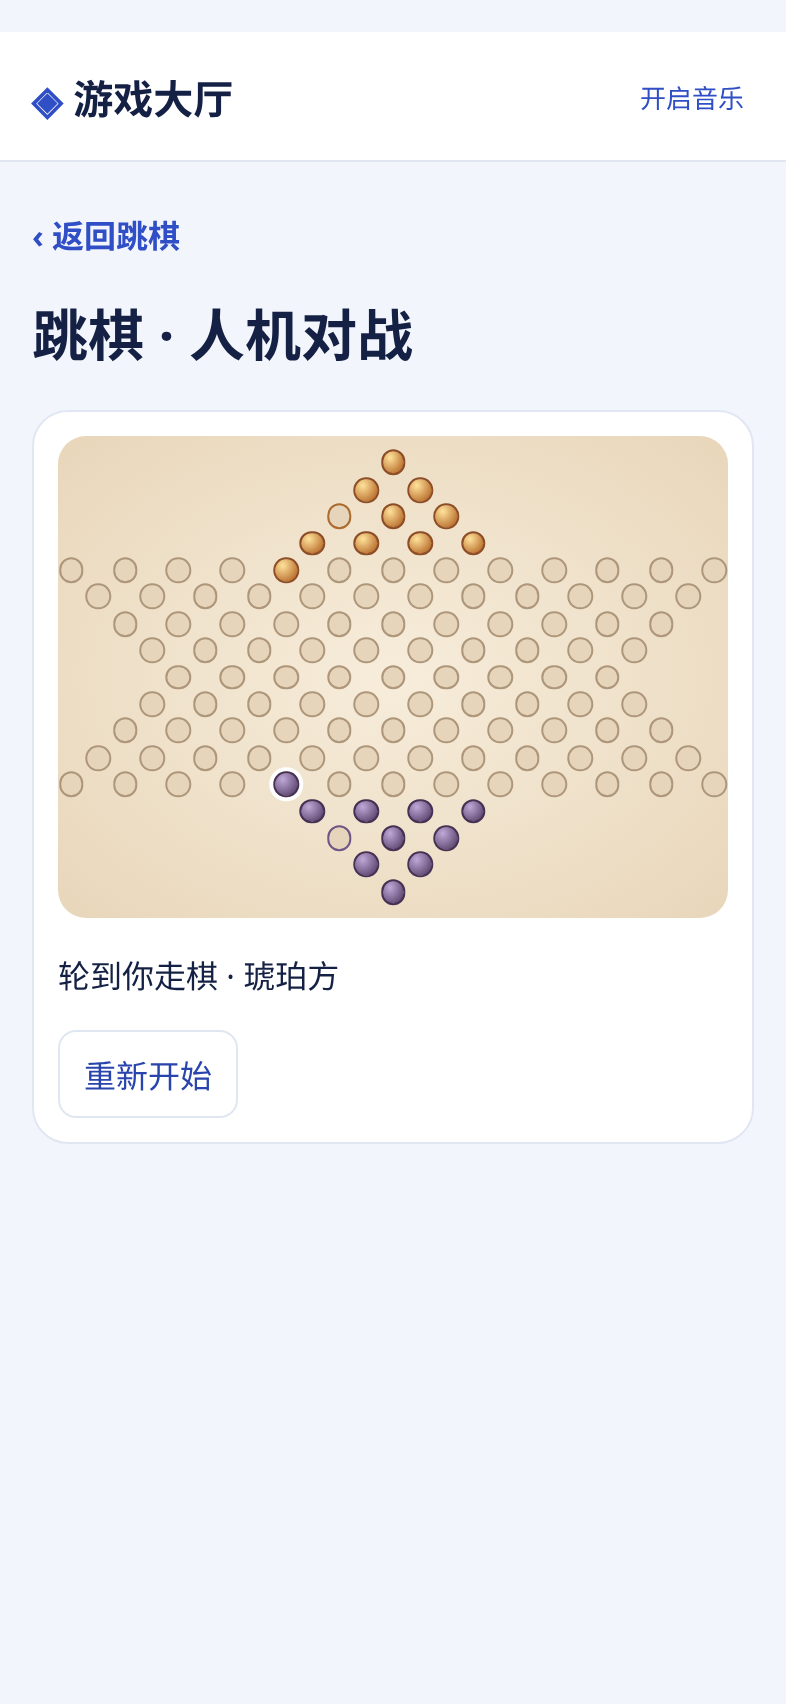
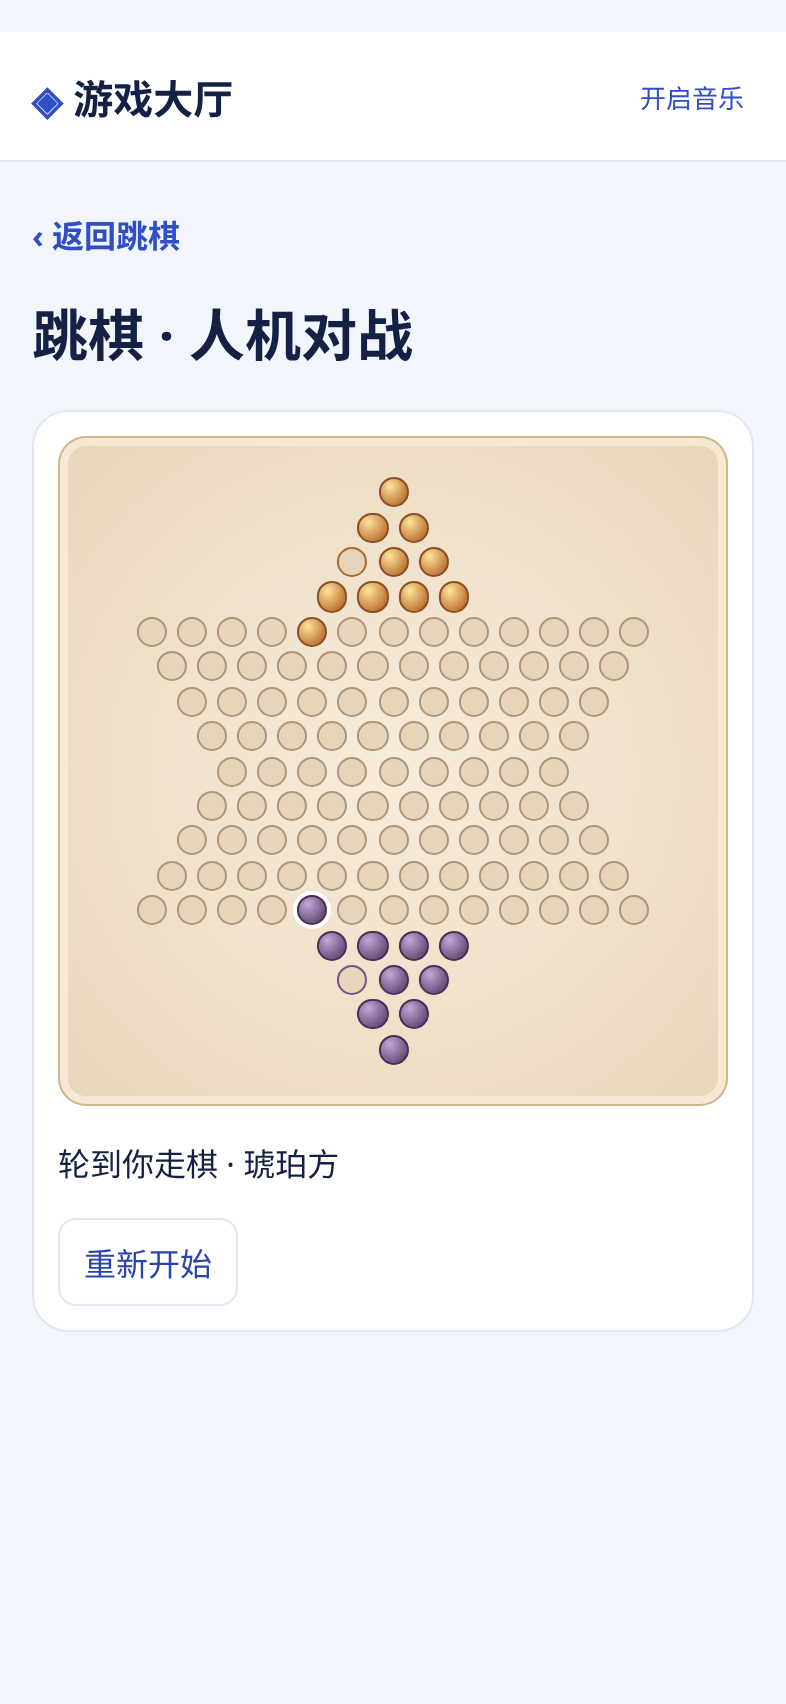
Refine square Checkers layout and build a 40-tile estate board

Changed region(s): [[0.0611, 0.2488, 0.9466, 0.7465], [0.916, 0.311, 0.9466, 0.3421], [0.0611, 0.311, 0.0916, 0.3421]]

diff --git a/public/style.css b/public/style.css
@@ -34,16 +34,42 @@ nav{display:flex;gap:24px;color:#536181;font-weight:650}nav a{padding:16px 0;bor
 .category-icon,.mode-icon{min-height:62px;display:flex;align-items:center;justify-content:center;gap:4px;border-radius:10px;background:#f3e8d9;color:#664d3c}
 .category-icon{font-size:28px}.mode-icon{background:#eeeae5}
 .game-hero{min-height:190px;margin-top:0}.game-hero h1,.game-hero p{margin:0}.game-hero p{margin-top:6px}
-#checkers-board{position:relative;aspect-ratio:25/18;border-radius:14px;background:radial-gradient(ellipse,#f7eddb,#e8d6ba);overflow:hidden}
-.checker-hole{position:absolute;left:calc((var(--x) + .5)*100%/25);top:calc((var(--y) + 1)*100%/18);transform:translate(-50%,-50%);width:3.8%;aspect-ratio:1;border:1px solid #ae967a;border-radius:50%;background:#e6d5bb;padding:0;color:#fff;display:grid;place-items:center}
+#checkers-board{position:relative;aspect-ratio:1;border-radius:14px;background:radial-gradient(circle,#f7eddb,#e8d6ba);overflow:hidden;box-shadow:inset 0 0 0 1px #d0b591,inset 0 0 0 5px #f6e9d3}
+.checker-hole{position:absolute;left:calc(50% + (var(--x) - 12)*3%);top:calc(50% + (var(--y) - 8)*5.196%);transform:translate(-50%,-50%);width:4.5%;aspect-ratio:1;border:1px solid #ae967a;border-radius:50%;background:#e6d5bb;padding:0;color:#fff;display:grid;place-items:center}
 .checker-hole:disabled{opacity:1}.checker-hole[data-camp="1"]{border-color:#ac6b2d}.checker-hole[data-camp="2"]{border-color:#705687}
 .checker-hole[data-stone="1"]{background:radial-gradient(at 34% 28%,#ffe39b,#a95415);border-color:#8d4d27}.checker-hole[data-stone="2"]{background:radial-gradient(at 34% 28%,#c0a8d8,#483258);border-color:#463154}
 .checker-hole[data-target="true"]{background:#fff7e5;outline:2px solid #8b4a27}.checker-hole[data-selected="true"]{outline:2px solid #442b17}
 .checker-hole[data-last="true"]{box-shadow:0 0 0 2px #fff}.checker-hole[data-hint]::after{content:attr(data-hint);display:grid;place-items:center;background:#29444a;width:100%;height:100%;border-radius:50%;font-size:clamp(8px,2.5vw,14px)}
 .audio-toggle{min-height:44px;border:0;background:transparent;color:var(--accent);font-size:13px;padding:0 5px}
-#estate-board{display:grid;grid-template:repeat(5,minmax(45px,auto))/repeat(5,minmax(0,1fr));gap:3px;background:#efe5d7;padding:5px;border-radius:10px}
-.estate-tile{background:#fcf5eb;border-radius:5px;padding:4px 2px;text-align:center;font-size:clamp(9px,2.35vw,13px);overflow-wrap:anywhere;display:grid;align-content:center;gap:2px}
-.estate-tile[data-owner="0"]{background:#ffdcb8}.estate-tile[data-owner="1"]{background:#e8d9fa}
-.estate-tile small{display:block}.estate-pieces{font-size:11px}
-#estate-players{grid-area:2/2/5/5;display:grid;place-items:center;text-align:center;font-weight:700;color:#563d2e}
-.estate-controls{flex-wrap:wrap}
+#estate-page .back{color:#37645c}
+.estate-shell{max-width:620px;margin:auto;padding:clamp(10px,3vw,18px);color:#233b36;background:#faf6ed;border:1px solid #e8ded0;border-radius:22px;box-shadow:0 12px 32px #382c1410}
+.estate-header{display:flex;justify-content:space-between;align-items:center;gap:10px;margin:0 1px 13px}.estate-header h1{margin:0;font-size:clamp(24px,7.5vw,38px);letter-spacing:.08em}.estate-header span{font-size:12px;color:#586d63;white-space:nowrap}
+.estate-players{display:grid;grid-template-columns:1fr 1fr;gap:7px;margin-bottom:11px}.estate-player{min-width:0;display:grid;grid-template-columns:auto 1fr auto;gap:5px;align-items:center;border:1px solid #e7ded0;border-radius:10px;background:#fffdf7;padding:8px 6px;font-size:12px}.estate-player[data-active="true"]{border-color:#56786b;background:#ebf1e9}
+.estate-player strong{font-variant-numeric:tabular-nums;font-size:clamp(13px,3.9vw,19px);white-space:nowrap}.estate-player small,.estate-deed small{display:block;color:#5f7069;font-size:11px}.estate-player i,.estate-pieces i{height:9px;width:9px;display:inline-block;border-radius:50%;background:#be6738;border:1px solid #8e4622}
+.estate-player[data-estate-player="1"] i,.estate-pieces i[data-side="1"]{background:#816b99;border-color:#584469}
+#estate-viewport{overflow:auto;aspect-ratio:1;overscroll-behavior:contain;touch-action:pan-x pan-y;border-radius:10px;background:#29443d}
+.estate-mapbar{display:flex;justify-content:space-between;gap:5px;margin:0 2px 6px;color:#4b655b;font-size:11px}
+#estate-board{position:relative;min-width:760px;display:grid;grid-template:repeat(11,minmax(0,1fr))/repeat(11,minmax(0,1fr));aspect-ratio:1;gap:3px;background:#29443d;padding:5px;border-radius:12px;box-shadow:0 4px 10px #1b2e2720}
+.estate-map{grid-area:2/2/11/11;background:#a7b5a0 url('/estate-map.webp') center/cover;border-radius:5px;box-shadow:inset 0 0 14px #362e2633}
+.estate-tile{--district:#a06754;position:relative;min-width:0;background:#fbf2e3;border:0;border-top:3px solid var(--district);border-radius:4px;padding:2px 1px;text-align:center;font-size:clamp(8px,2.55vw,14px);line-height:1.1;overflow:hidden;display:flex;flex-direction:column;justify-content:center;align-items:center;gap:2px;color:#233b36}
+.estate-tile[data-district="1"]{--district:#487c73}.estate-tile[data-district="2"]{--district:#bd8c43}.estate-tile[data-district="3"]{--district:#84748f}
+.estate-tile[data-district="4"]{--district:#4e7791}.estate-tile[data-district="5"]{--district:#7b644e}
+.estate-tile[data-owner="0"]{background:#ffdfc1}.estate-tile[data-owner="1"]{background:#eee3f6}
+.estate-tile[aria-pressed="true"]{box-shadow:inset 0 0 0 2px #1f4940}.estate-tile strong{font-weight:750;overflow-wrap:anywhere}.estate-tile small{font-size:clamp(8px,2.5vw,12px);color:#425650}.estate-tile-badge{color:var(--district);font-size:10px}
+.estate-pieces{position:absolute;display:flex;gap:1px;right:2px;top:1px}.estate-pieces i{height:8px;width:8px;box-shadow:0 0 0 1px #fffc}
+.estate-deed{display:flex;align-items:center;justify-content:space-between;gap:12px;margin-top:10px;padding:8px 11px;background:#fffdf7;border:1px solid #e7ded0;border-radius:9px}.estate-deed strong,.estate-deed b{font-size:14px}
+.estate-operation{margin-top:10px;padding:11px;background:#28453d;color:#fffaf0;border-radius:13px}.estate-turn{display:flex;gap:9px;align-items:center}.estate-turn strong{font-size:14px}.estate-turn p{margin:3px 0 0;color:#e1e7da;font-size:12px;line-height:1.4}.estate-turn>span{color:#fff5db;font-size:34px;line-height:1}
+.estate-controls{display:flex;flex-wrap:wrap;gap:6px;margin-top:10px}.estate-controls button,.estate-footer button{min-height:44px;padding:0 9px;border:1px solid #719183;border-radius:8px;background:#354f46;color:#fff9ed;font-size:13px}.estate-controls .estate-primary{background:#f9e1aa;color:#273d32;border-color:#f9e1aa;font-weight:800;flex:1 1 100px}
+.estate-controls button:disabled{opacity:.5}.estate-footer{display:flex;justify-content:space-between;align-items:flex-start;gap:8px;margin-top:8px;font-size:12px;color:#4b655b}.estate-footer summary{min-height:44px;align-content:center;cursor:pointer}.estate-footer p{line-height:1.6}.estate-footer button{flex-shrink:0;background:transparent;color:#41655a;border-color:#d8dfd4}
+@media(max-width:375px){.estate-player{grid-template-columns:auto 1fr;gap:4px}.estate-player strong{grid-column:2}.estate-tile-badge{display:none}}
+
+.estate-model{position:absolute;top:12px;left:12px;width:13px;height:13px;transform-style:preserve-3d;transform:rotateX(51deg) rotateZ(-36deg);pointer-events:none}
+.estate-model i{position:absolute;inset:0;transform-style:preserve-3d;transform:translateZ(calc(6px + var(--floor)*6px));background:#e5b965;border:1px solid #715832}
+.estate-model i b{display:block;position:absolute;background:#91613a}
+.estate-model i b:first-child{width:13px;height:6px;bottom:0;left:-1px;transform-origin:bottom;transform:translateY(6px) rotateX(-90deg);border:1px solid #65432c}
+.estate-model i b:last-child{height:13px;width:6px;right:0;top:-1px;transform-origin:right;transform:translateX(6px) rotateY(90deg);border:1px solid #65432c;background:#b27d4a}
+.estate-tile:not([data-floors="0"]) .estate-tile-badge{opacity:0}
+
+.estate-mapbar{align-items:center}.estate-mapbar button{min-height:36px;padding:0 8px;border-radius:7px;background:#fffdf7;border:1px solid #e7ded0;color:#31574e;font-size:12px}
+.estate-tile[data-district="6"]{--district:#9b765b}.estate-tile[data-district="7"]{--district:#986b77}.estate-tile[data-district="8"]{--district:#687d53}.estate-tile[data-district="9"]{--district:#618ba3}
+#estate-viewport.overview #estate-board{min-width:0}.overview .estate-tile small,.overview .estate-tile-badge,.overview .estate-model{display:none}.overview .estate-tile{font-size:9px}

diff --git a/public/index.html b/public/index.html
@@ -24,29 +24,43 @@
     </a>
   </section>
 </section>
-<section id="board-games" class="directory" hidden>
+<section id="tabletop-category" class="directory" hidden>
   <a class="back" href="#">‹ 返回游戏大厅</a>
   <h1>桌游</h1>
   <a class="game" href="#estate"><span class="category-icon" aria-hidden="true">⬡</span>
     <span><strong>街区大亨</strong><small>原创地产桌游 · 双人同屏</small></span><b aria-hidden="true">›</b>
   </a>
 </section>
-<section id="estate" class="directory" hidden>
+<section id="estate-page" class="directory" hidden>
   <a class="back" href="#board-games">‹ 返回桌游</a>
-  <h1>街区大亨</h1>
-  <p>掷骰、买地、收租。对手破产即获胜，40 回合后比较总资产。</p>
-  <div class="arena">
-    <div id="estate-board"><div id="estate-players"></div></div>
-    <p id="estate-status" role="status"></p>
-    <div class="controls estate-controls">
-      <button class="primary" data-estate-action="roll">掷骰</button>
-      <button data-estate-action="buy">买地</button><button data-estate-action="skip">跳过</button>
-      <button data-estate-action="boost">商圈推广</button><button data-estate-action="shield">租金护盾</button>
-      <button data-estate-action="restart">重新开始</button>
+  <div class="estate-shell">
+    <header class="estate-header"><h1>街区大亨</h1><span>双人同屏</span></header>
+    <div class="estate-players" aria-label="玩家资产">
+      <div class="estate-player" data-estate-player="0"><i aria-hidden="true"></i><span>橙方 <small></small></span><strong></strong></div>
+      <div class="estate-player" data-estate-player="1"><i aria-hidden="true"></i><span>紫方 <small></small></span><strong></strong></div>
     </div>
+    <div class="estate-mapbar"><span>40 格街区地图</span><span>左右、上下滑动查看</span><button id="estate-overview" type="button" aria-pressed="false">全图</button></div>
+    <div id="estate-viewport" tabindex="0" aria-label="可在两个方向滑动的街区棋盘">
+      <div id="estate-board"><div class="estate-map" aria-hidden="true"></div></div>
+    </div>
+    <div id="estate-deed" class="estate-deed"><div><strong></strong><small></small></div><b></b></div>
+    <div class="estate-operation">
+      <div class="estate-turn"><span id="estate-dice" aria-hidden="true"></span><div><strong id="estate-turn"></strong><p id="estate-status" role="status"></p></div></div>
+      <div class="estate-controls">
+        <button class="estate-primary" data-estate-action="roll">掷骰</button>
+        <button class="estate-primary" data-estate-action="buy">购买地契</button>
+        <button class="estate-primary" data-estate-action="upgrade">升级地产</button>
+        <button data-estate-action="skip">跳过</button>
+        <button data-estate-action="boost" title="下一次收租加倍">商圈推广</button>
+        <button data-estate-action="shield" title="下一次付租减半">租金护盾</button>
+        <button data-estate-action="audit" title="取消对手当前的商圈推广">临时稽查</button>
+        <button data-estate-action="sell" hidden>卖出地契</button>
+      </div>
+    </div>
+    <div class="estate-footer"><details><summary>玩法说明</summary><p>掷骰移动，买下空置地契。走到自己的地产可逐层盖楼，最高三层，走到对手的地产要交租。同一街区买齐有租金加成。掷骰前可卖地筹资，也可发动技能。走到事件格会影响现金。破产即输，40 回合后比较现金与地产价值。</p></details><button data-estate-action="restart">重新开始</button></div>
   </div>
 </section>
-<section id="games" class="directory" hidden>
+<section id="chess-category" class="directory" hidden>
   <a class="back" href="#">‹ 返回游戏大厅</a>
   <h1>棋类游戏</h1>
   <a class="game" href="#gomoku"><span class="game-icon" aria-hidden="true"></span>
@@ -77,7 +91,7 @@
     <div class="controls"><button id="checkers-join" type="button" hidden>入席</button><button id="checkers-restart" type="button" hidden>重新开始</button></div>
   </div>
 </section>
-<section id="gomoku" class="directory" hidden>
+<section id="gomoku-menu" class="directory" hidden>
   <a class="back" href="#games">‹ 返回棋类游戏</a>
   <div class="hero game-hero"><div class="hero-copy"><h1>五子棋</h1><p>黑白交锋，五子成线。</p></div></div>
   <h2>选择玩法</h2>

diff --git a/public/app.js b/public/app.js
@@ -6,8 +6,8 @@ const showCheckers = mountCheckers(telegram);
 const showEstate = mountEstate();
 mountMusic();
 const lobby = document.querySelector('#lobby');
-const category = document.querySelector('#games');
-const gameMenu = document.querySelector('#gomoku');
+const category = document.querySelector('#chess-category');
+const gameMenu = document.querySelector('#gomoku-menu');
 const room = document.querySelector('#room');
 const board = document.querySelector('#board');
 const status = document.querySelector('#status');
@@ -253,7 +253,7 @@ function route() {
   const checkersVisible = showCheckers(hash);
   const estateVisible = showEstate(hash);
   lobby.hidden = inRoom || !category.hidden || !gameMenu.hidden || checkersVisible || estateVisible;
-  window.scrollTo(0, 0);
+  requestAnimationFrame(() => window.scrollTo(0, 0));
   if (!room.hidden) {
     render();
     request();

diff --git a/README.md b/README.md
@@ -52,5 +52,5 @@ V 模式由管理员在指定好友局开启，可选定两个空位并确认。
 大厅先选分类，再选游戏和玩法。「棋类游戏」收录五子棋和跳棋。「桌游」收录原创双人同屏地产桌游「街区大亨」。
 
 - 跳棋好友对弈复用 Telegram 授权，并独立保存每位好友的局面。人机对战在本机进行。选中棋子后，双方共用的棋盘会标出合法落点。管理员专用的推荐路线由服务端计算，只提供给管理员的好友对弈界面。
-- 街区大亨支持掷骰、买地、收租、破产和 40 回合结算。商圈推广和租金护盾是双方可见的一次性能力。同屏局暂存于页面，刷新会重新开始。
+- 街区大亨有 40 格、十个街区，支持买卖地契、三层立体楼房、街区租金加成、事件、破产和 40 回合结算。商圈推广、租金护盾和临时稽查是双方可见的一次性能力。同屏局暂存于页面，刷新会重新开始。
 - 音乐由浏览器实时合成，默认静音，点击开启后播放，页面进入后台时暂停。
